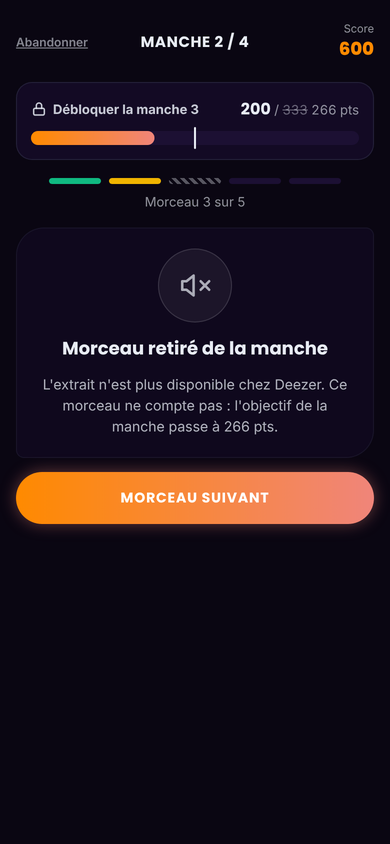
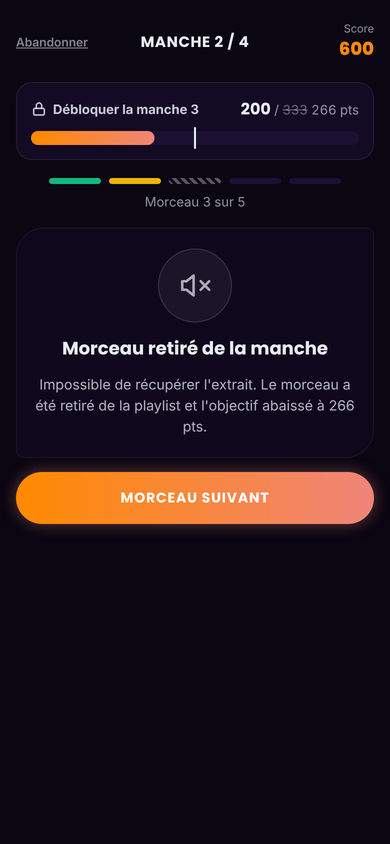
docs(runs): morceau sans extrait, texte générique sur la cause

Changed region(s): [[0.0923, 0.4313, 0.9231, 0.5237]]

diff --git a/docs/runs/ecrans.md b/docs/runs/ecrans.md
@@ -67,7 +67,7 @@ Après Valider ou Passer, **on reste dans l'écran de la manche** : le lecteur e
 ![Morceau sans extrait](maquettes/morceau-neutralise.png)
 
 Quand Deezer n'a plus d'extrait pour le morceau en cours, le serveur le neutralise ([`regles.md`](regles.md#la-jauge)). On reste dans l'écran de la manche ; à la place du lecteur et de la saisie :
-- une carte « **Morceau retiré de la manche** » : « L'extrait n'est plus disponible chez Deezer. Ce morceau ne compte pas : l'objectif de la manche passe à 266 pts. » Rien ne révèle le morceau ;
+- une carte « **Morceau retiré de la manche** » : « Impossible de récupérer l'extrait. Le morceau a été retiré de la playlist et l'objectif abaissé à 266 pts. » Le texte reste générique sur la cause, et rien ne révèle le morceau ;
 - dans le bloc objectif, l'ancien objectif barré à côté du nouveau (« 200 / ~~333~~ 266 pts »), le repère de la jauge recalculé ;
 - la pastille du morceau hachurée (ne compte pas) ;
 - « MORCEAU SUIVANT » dessous, comme après une réponse.
